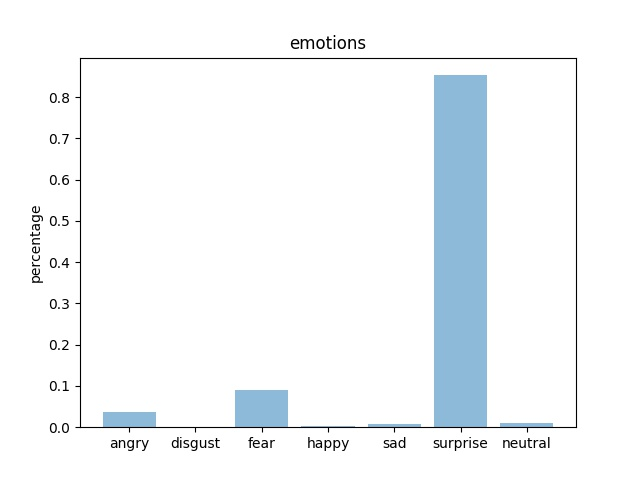
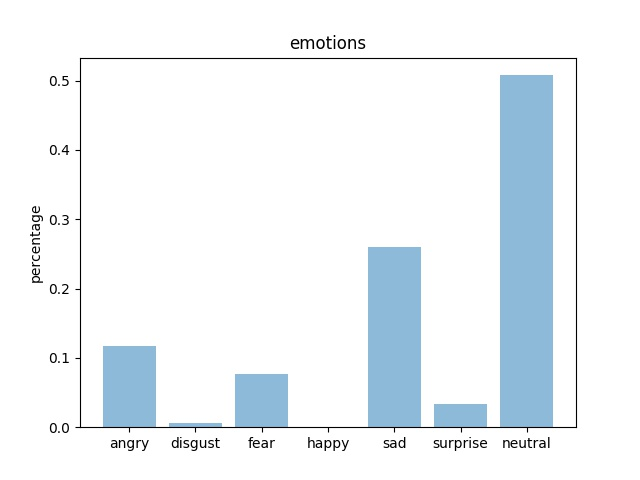
4/4 21：21

diff --git a/app/routes_for_camera.py b/app/routes_for_camera.py
@@ -5,6 +5,7 @@ from flask import render_template, Response
 from app import app
 from app.backend import cv_capture
 from app.models import VideoCamera
+import keras
 
 app.jinja_env.auto_reload = True
 app.config['TEMPLATES_AUTO_RELOAD'] = True
@@ -76,10 +77,12 @@ def analysis():
 
 @app.route('/gen_bar')
 def gen_bar():
+    keras.backend.clear_session()
     cv_capture.classify(image)
     bar_addr = 'static/barchart.jpg'
+    address = 'static/cached_images.jpg'
     global is_uploaded
     is_uploaded=False
-    return render_template('index.html', bar_addr=bar_addr, is_uploaded=is_uploaded)
+    return render_template('index.html', address=address, bar_addr=bar_addr, is_uploaded=is_uploaded)
 
 

diff --git a/app/backend/cv_capture.py b/app/backend/cv_capture.py
@@ -47,8 +47,11 @@ def classify(img):
         gray_face = gray_face / 255.0
         gray_face = np.expand_dims(gray_face, 0)
         gray_face = np.expand_dims(gray_face, -1)
-        custom = emotion_classifier.predict(gray_face)
+        global emo
+        # 统一初始化的版本
+        custom = emo.emotion_classifier.predict(gray_face)
         emotion_analysis(custom[0])
+        keras.backend.clear_session()
 
 
 def emotion_analysis(emotions):

diff --git a/app/models.py b/app/models.py
@@ -21,3 +21,10 @@ class VideoCamera(object):
     def read(self):
         ret, image = self.video.read()
         return ret, image
+
+
+class EmotionClassifier(object):
+    def __init__(self):
+        basedir = os.path.abspath(os.path.dirname(__file__))
+        model_path = os.path.join(basedir, 'backend/simple_CNN.530-0.65.hdf5')
+        self.emotion_classifier = tf.keras.models.load_model(model_path)
